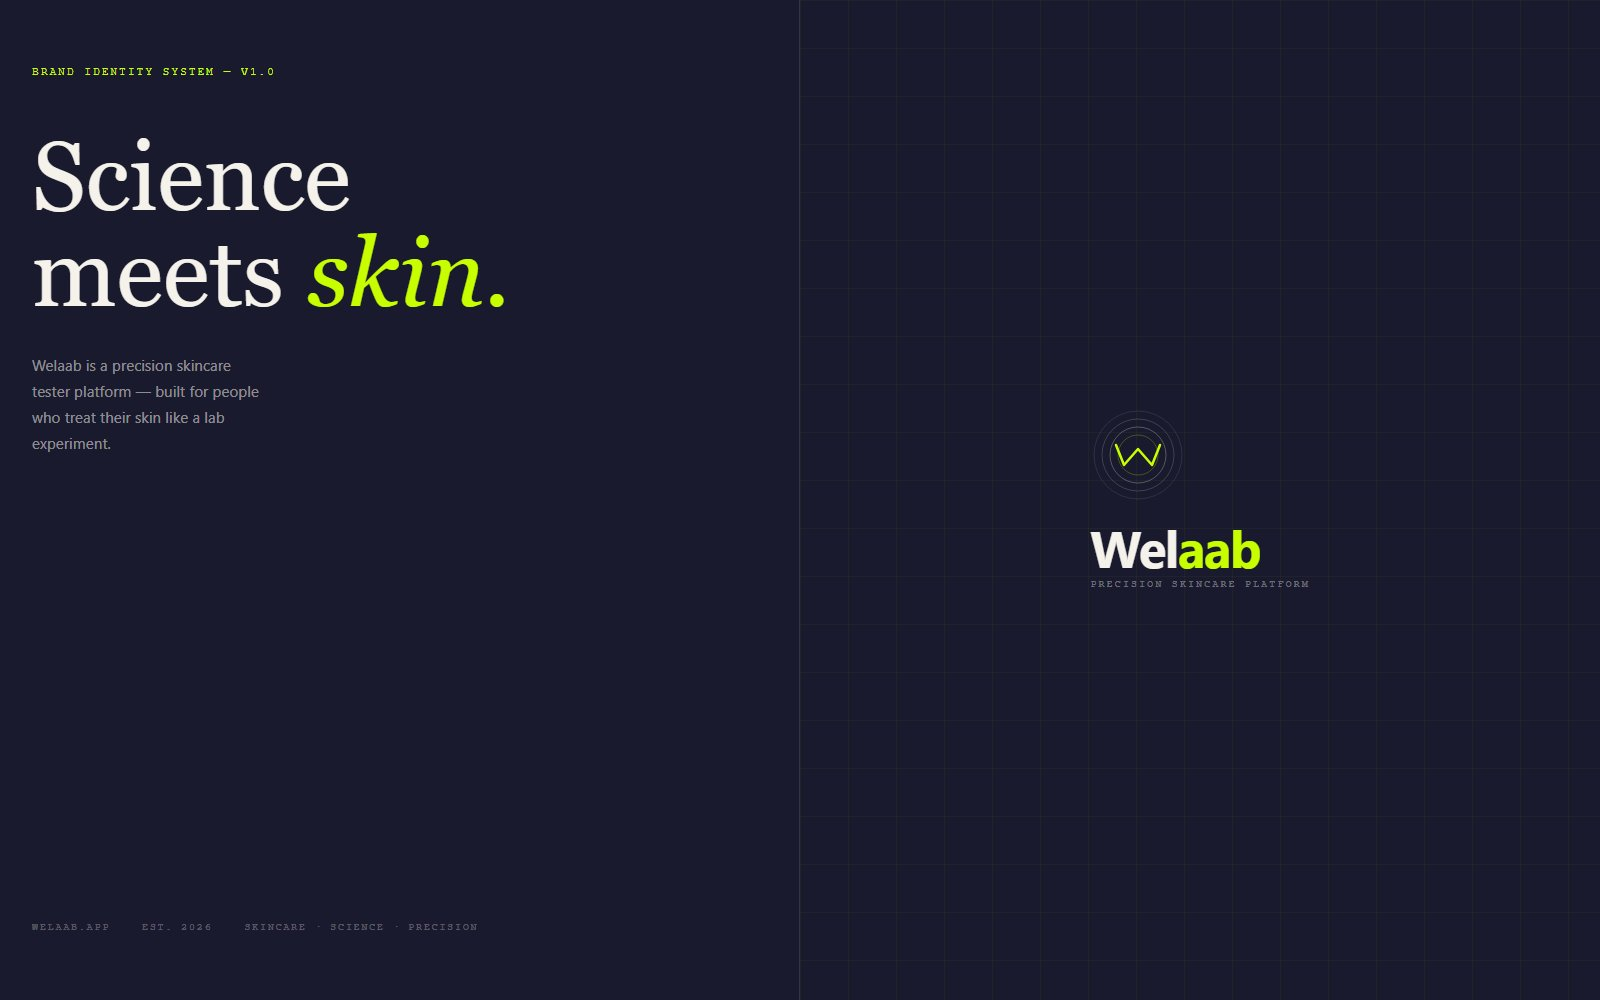
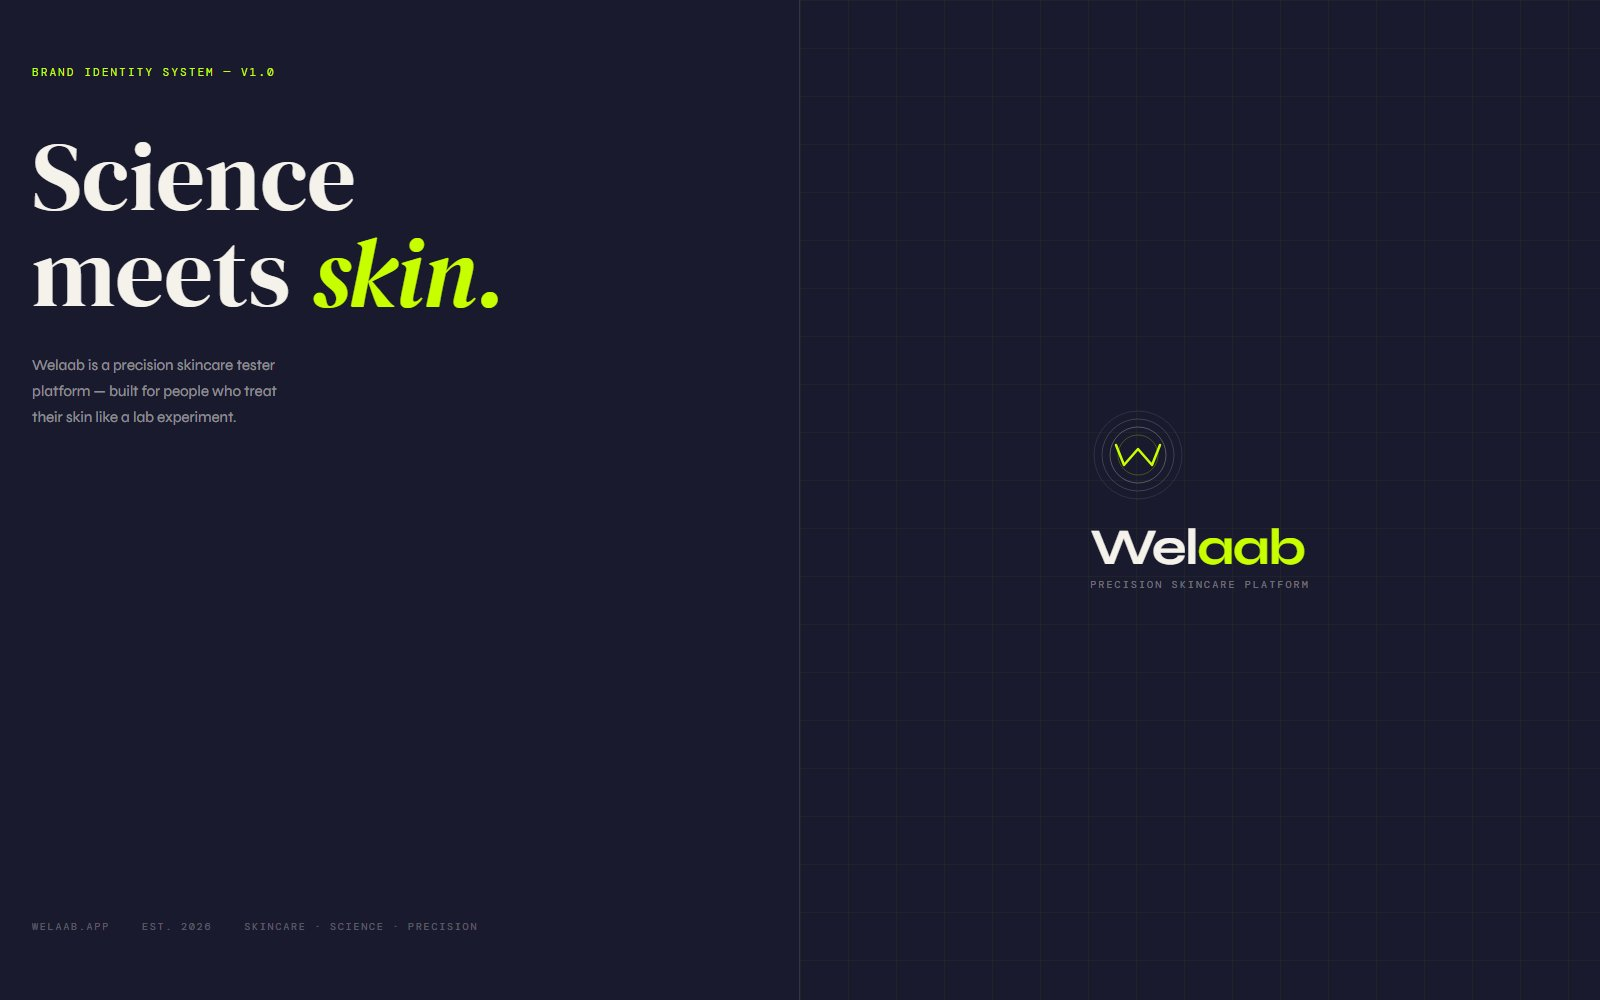
Welaab page: point @font-face at the files next to the stylesheet
'fonts/x.woff2' resolved relative to the stylesheet, so it looked for
fonts/fonts/x.woff2 and every face fell back to Georgia/system mono. Also
re-shoots the card image now that DM Serif Display actually renders.

diff --git a/work/welaab/fonts/fonts.css b/work/welaab/fonts/fonts.css
@@ -1,14 +1,14 @@
 /* Welaab brand page — fonts self-hosted (no external CDN).
    DM Serif Display, Syne and DM Mono are SIL Open Font License 1.1. */
-@font-face{font-family:'DM Mono';font-style:normal;font-weight:300;font-display:swap;src:url('fonts/dm-mono-300-latin-ext.woff2') format('woff2');}
-@font-face{font-family:'DM Mono';font-style:normal;font-weight:300;font-display:swap;src:url('fonts/dm-mono-300-latin.woff2') format('woff2');}
-@font-face{font-family:'DM Mono';font-style:normal;font-weight:400;font-display:swap;src:url('fonts/dm-mono-400-latin-ext.woff2') format('woff2');}
-@font-face{font-family:'DM Mono';font-style:normal;font-weight:400;font-display:swap;src:url('fonts/dm-mono-400-latin.woff2') format('woff2');}
-@font-face{font-family:'DM Mono';font-style:normal;font-weight:500;font-display:swap;src:url('fonts/dm-mono-500-latin-ext.woff2') format('woff2');}
-@font-face{font-family:'DM Mono';font-style:normal;font-weight:500;font-display:swap;src:url('fonts/dm-mono-500-latin.woff2') format('woff2');}
-@font-face{font-family:'DM Serif Display';font-style:italic;font-weight:400;font-display:swap;src:url('fonts/dm-serif-display-400-italic-latin-ext.woff2') format('woff2');}
-@font-face{font-family:'DM Serif Display';font-style:italic;font-weight:400;font-display:swap;src:url('fonts/dm-serif-display-400-italic-latin.woff2') format('woff2');}
-@font-face{font-family:'DM Serif Display';font-style:normal;font-weight:400;font-display:swap;src:url('fonts/dm-serif-display-400-latin-ext.woff2') format('woff2');}
-@font-face{font-family:'DM Serif Display';font-style:normal;font-weight:400;font-display:swap;src:url('fonts/dm-serif-display-400-latin.woff2') format('woff2');}
-@font-face{font-family:'Syne';font-style:normal;font-weight:400 800;font-display:swap;src:url('fonts/syne-400-800-latin-ext.woff2') format('woff2');}
-@font-face{font-family:'Syne';font-style:normal;font-weight:400 800;font-display:swap;src:url('fonts/syne-400-800-latin.woff2') format('woff2');}
+@font-face{font-family:'DM Mono';font-style:normal;font-weight:300;font-display:swap;src:url('dm-mono-300-latin-ext.woff2') format('woff2');}
+@font-face{font-family:'DM Mono';font-style:normal;font-weight:300;font-display:swap;src:url('dm-mono-300-latin.woff2') format('woff2');}
+@font-face{font-family:'DM Mono';font-style:normal;font-weight:400;font-display:swap;src:url('dm-mono-400-latin-ext.woff2') format('woff2');}
+@font-face{font-family:'DM Mono';font-style:normal;font-weight:400;font-display:swap;src:url('dm-mono-400-latin.woff2') format('woff2');}
+@font-face{font-family:'DM Mono';font-style:normal;font-weight:500;font-display:swap;src:url('dm-mono-500-latin-ext.woff2') format('woff2');}
+@font-face{font-family:'DM Mono';font-style:normal;font-weight:500;font-display:swap;src:url('dm-mono-500-latin.woff2') format('woff2');}
+@font-face{font-family:'DM Serif Display';font-style:italic;font-weight:400;font-display:swap;src:url('dm-serif-display-400-italic-latin-ext.woff2') format('woff2');}
+@font-face{font-family:'DM Serif Display';font-style:italic;font-weight:400;font-display:swap;src:url('dm-serif-display-400-italic-latin.woff2') format('woff2');}
+@font-face{font-family:'DM Serif Display';font-style:normal;font-weight:400;font-display:swap;src:url('dm-serif-display-400-latin-ext.woff2') format('woff2');}
+@font-face{font-family:'DM Serif Display';font-style:normal;font-weight:400;font-display:swap;src:url('dm-serif-display-400-latin.woff2') format('woff2');}
+@font-face{font-family:'Syne';font-style:normal;font-weight:400 800;font-display:swap;src:url('syne-400-800-latin-ext.woff2') format('woff2');}
+@font-face{font-family:'Syne';font-style:normal;font-weight:400 800;font-display:swap;src:url('syne-400-800-latin.woff2') format('woff2');}
